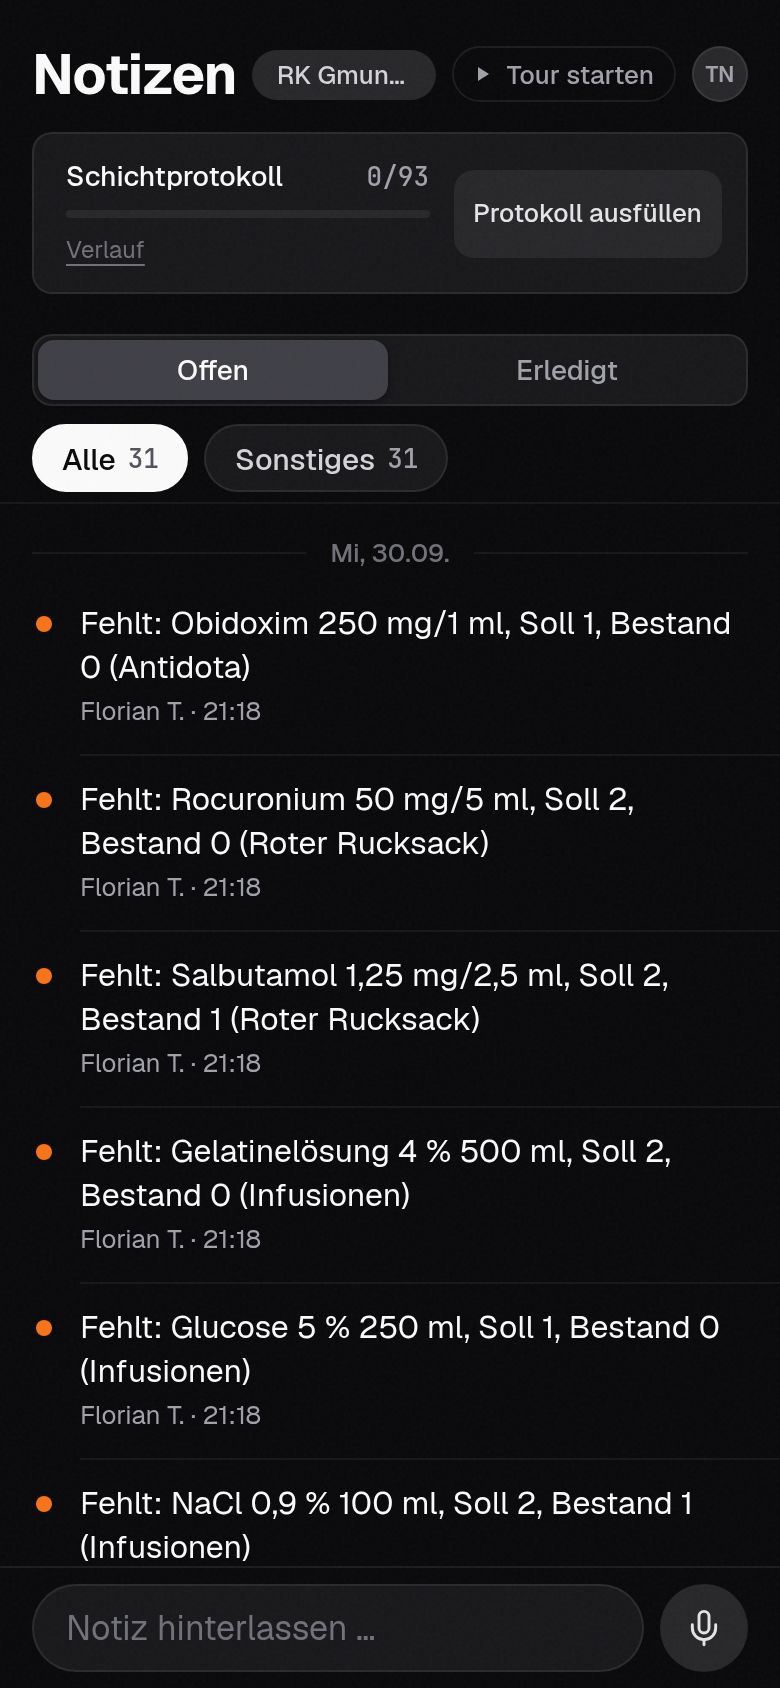
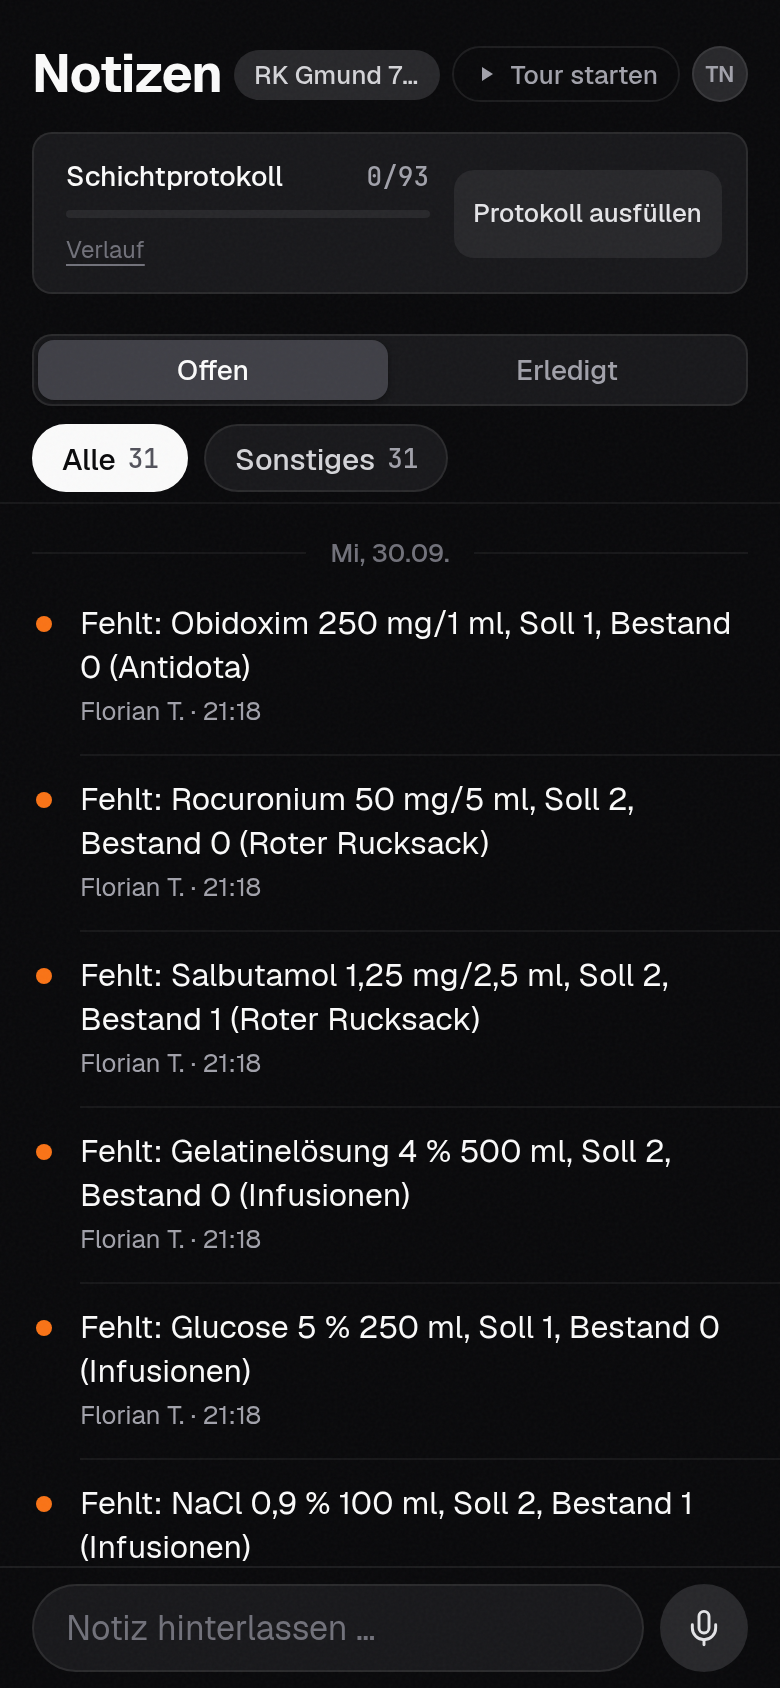
HAZ-138: tighter 390 header so the vehicle chip is not truncated

Changed region(s): [[0.0308, 0.0308, 0.5231, 0.0616], [0.6462, 0.0308, 0.8308, 0.0616]]

diff --git a/src/app/app/v19.css b/src/app/app/v19.css
@@ -46,7 +46,7 @@
 .v19 .fh h1{font-size:28px;line-height:34px;font-weight:700;letter-spacing:-.02em;flex:1 0 auto;white-space:nowrap}
 .v19 .fh .veh-wrap{position:relative;min-width:0;flex:0 1 auto}
 .v19 .fh .veh-wrap>.veh{display:block;max-width:100%;overflow:hidden;text-overflow:ellipsis}
-@media (max-width:430px){.v19 .fh{gap:6px}.v19 .fh h1{font-size:26px}.v19 .fh .veh{padding:4px 10px}.v19 .tbtn{padding:0 8px 0 6px}}
+@media (max-width:430px){.v19 .fh{gap:6px}.v19 .fh h1{font-size:24px}.v19 .fh .veh{padding:4px 8px}.v19 .tbtn{padding:0 8px 0 6px}}
 #nef .subpage{flex:1;min-height:0;overflow-y:auto;background:#09090b;color:#fafafa}
 .v19 .veh{background:var(--sec);color:#d4d4d8;font:500 13px var(--sans);padding:4px 12px;border-radius:99px;white-space:nowrap}
 .v19 .pcard{margin:4px 16px 8px;display:flex;align-items:center;gap:12px;padding:12px 12px 12px 16px;border:1px solid var(--border);background:var(--card);border-radius:var(--radius)}
